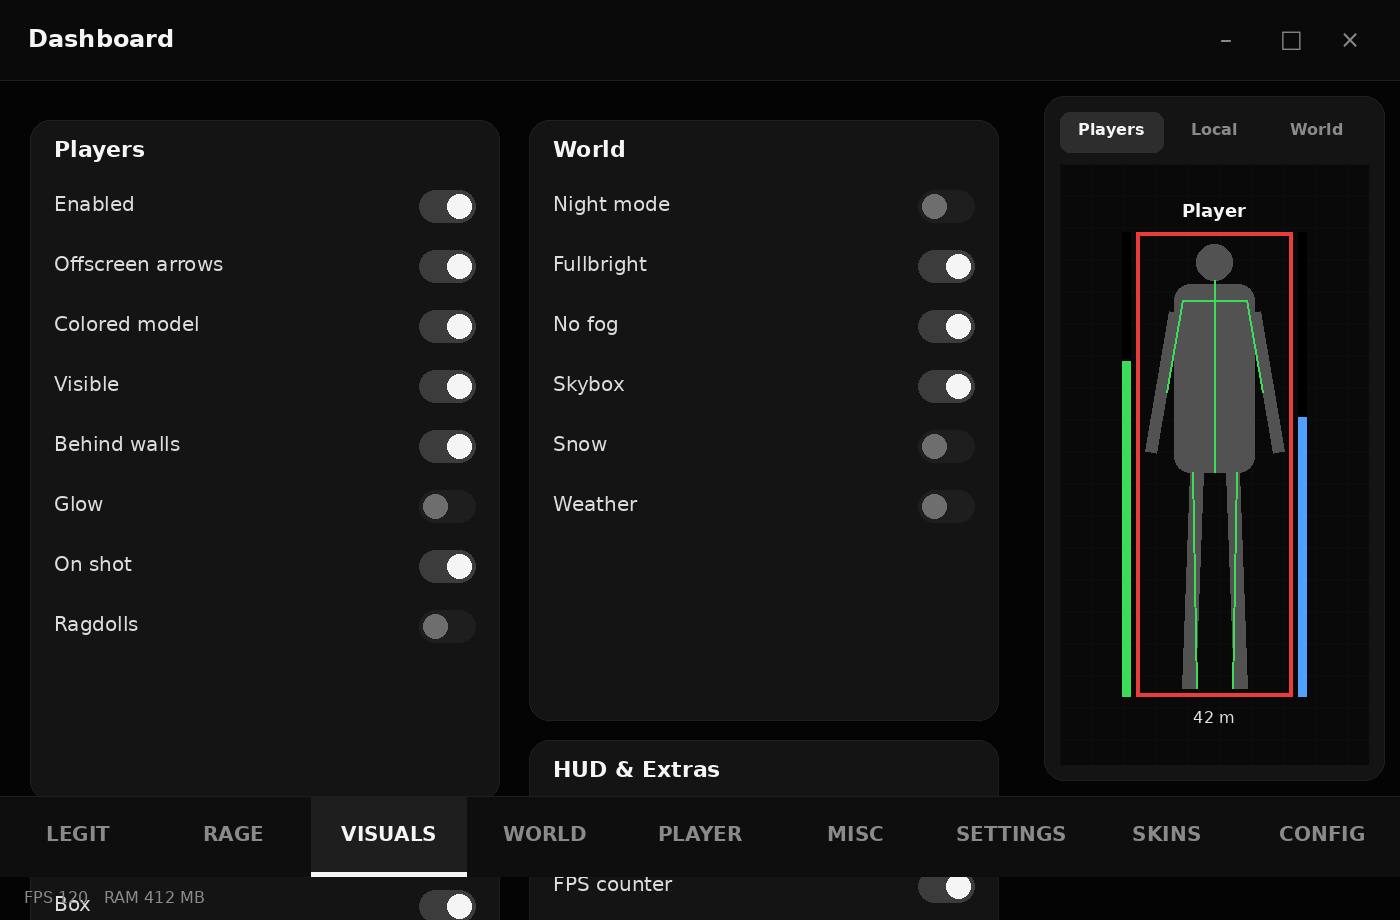
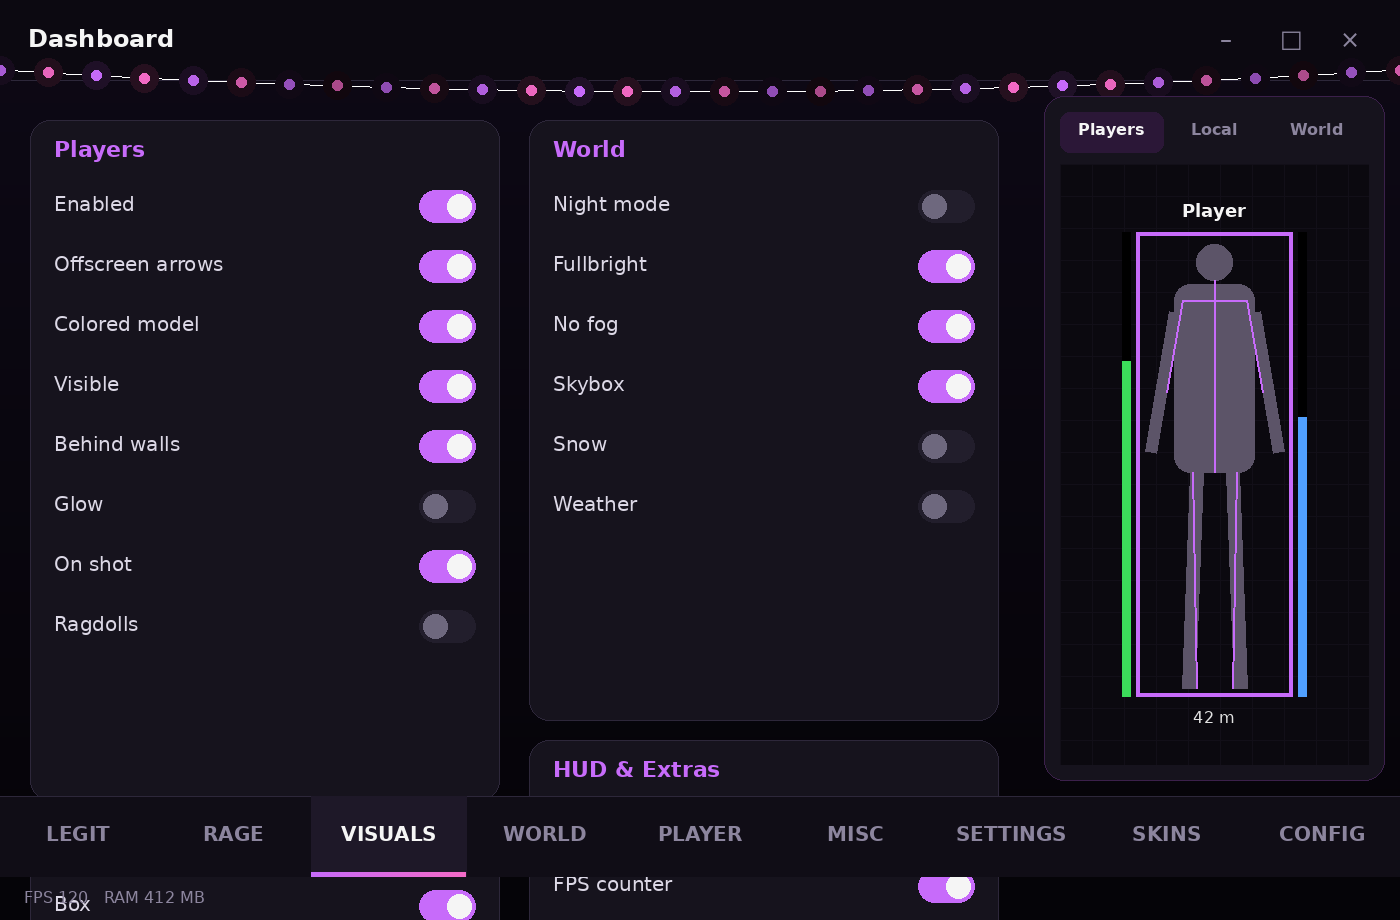
feat(menu): гирлянда, моушн-блюр и розово-фиолетовая палитра (#12)
- палитра: акцент #c76bfa (фиолетовый) + #f56bc7 (розовый), поверхности
  почти чёрные с фиолетовым подтоном, границы и текст — серые
- GarlandView: анимированная гирлянда по нижней кромке верхней панели,
  лампочки мигают в противофазе, цвета чередуются розовый/фиолетовый
- моушн-блюр: UIVisualEffectView поверх меню, альфа растёт от скорости
  пана и плавно гаснет после отпускания
- градиент фона меню, рамка превью и подчёркивание активной вкладки
  теперь в акцентных цветах

diff --git a/FlopDLC.mm b/FlopDLC.mm
@@ -5145,21 +5145,24 @@ static UIImage* CreateFlopDLCFLogo(CGSize size) {
 @property (nonatomic, strong) UILabel *titleLabel;
 @end
 
-// Монохромная палитра как в референсе: почти чёрные поверхности, белый акцент.
+// Палитра: розово-фиолетовый акцент на почти чёрном, серые подложки.
 static UIColor* NLAccent(void) {
-    return gMenuAccent ?: [UIColor colorWithWhite:0.96 alpha:1.0];
+    return gMenuAccent ?: [UIColor colorWithRed:0.78 green:0.42 blue:0.98 alpha:1.0];
+}
+static UIColor* NLAccent2(void) {
+    return [UIColor colorWithRed:0.96 green:0.42 blue:0.78 alpha:1.0];
 }
 static UIColor* NLSurface(void) {
-    return [UIColor colorWithWhite:0.016 alpha:1.0];
+    return [UIColor colorWithRed:0.035 green:0.031 blue:0.047 alpha:1.0];
 }
 static UIColor* NLSurfaceHi(void) {
-    return [UIColor colorWithWhite:0.078 alpha:1.0];
+    return [UIColor colorWithRed:0.086 green:0.075 blue:0.114 alpha:1.0];
 }
 static UIColor* NLBorder(void) {
-    return [UIColor colorWithWhite:0.122 alpha:1.0];
+    return [UIColor colorWithRed:0.176 green:0.153 blue:0.227 alpha:1.0];
 }
 static UIColor* NLTextDim(void) {
-    return [UIColor colorWithWhite:0.54 alpha:1.0];
+    return [UIColor colorWithRed:0.55 green:0.52 blue:0.62 alpha:1.0];
 }
 
 @implementation NLGroupBox
@@ -6526,6 +6529,89 @@ static void NLDrawCentered(NSString *text, CGFloat cx, CGFloat y, UIFont *font,
 
 @end
 
+// =========================================================================================
+// GARLAND — гирлянда из лампочек по нижней кромке верхней панели.
+// =========================================================================================
+@interface GarlandView : UIView
+@end
+
+@implementation GarlandView {
+    CADisplayLink *_link;
+    CFTimeInterval _t0;
+}
+
+- (instancetype)initWithFrame:(CGRect)frame {
+    self = [super initWithFrame:frame];
+    if (self) {
+        self.backgroundColor = [UIColor clearColor];
+        self.opaque = NO;
+        self.userInteractionEnabled = NO;
+        self.contentMode = UIViewContentModeRedraw;
+    }
+    return self;
+}
+
+- (void)didMoveToWindow {
+    [super didMoveToWindow];
+    [_link invalidate];
+    _link = nil;
+    if (self.window) {
+        _t0 = CACurrentMediaTime();
+        _link = [CADisplayLink displayLinkWithTarget:self selector:@selector(tick)];
+        [_link addToRunLoop:[NSRunLoop mainRunLoop] forMode:NSRunLoopCommonModes];
+    }
+}
+
+- (void)tick {
+    [self setNeedsDisplay];
+}
+
+- (void)dealloc {
+    [_link invalidate];
+}
+
+- (void)drawRect:(CGRect)rect {
+    CGContextRef ctx = UIGraphicsGetCurrentContext();
+    if (!ctx) {
+        return;
+    }
+    CGFloat w = self.bounds.size.width;
+    CGFloat h = self.bounds.size.height;
+    if (w < 40.0 || h < 12.0) {
+        return;
+    }
+
+    double t = CACurrentMediaTime() - _t0;
+    CGFloat y0 = 3.0;
+    CGFloat sag = h * 0.42;
+
+    CGContextSetStrokeColorWithColor(ctx, [UIColor colorWithWhite:1.0 alpha:0.10].CGColor);
+    CGContextSetLineWidth(ctx, 1.0);
+    CGContextMoveToPoint(ctx, 0, y0);
+    CGContextAddQuadCurveToPoint(ctx, w * 0.5, y0 + sag * 2.0, w, y0);
+    CGContextStrokePath(ctx);
+
+    int bulbs = MAX(8, (int)(w / 24.0));
+    for (int i = 0; i <= bulbs; i++) {
+        CGFloat u = (CGFloat)i / (CGFloat)bulbs;
+        CGFloat x = u * w;
+        CGFloat y = y0 + 4.0 * sag * u * (1.0 - u);
+
+        double phase = t * 2.4 + (double)i * 0.65;
+        CGFloat glow = 0.45 + 0.55 * (CGFloat)(0.5 + 0.5 * sin(phase));
+
+        UIColor *c = (i % 2 == 0) ? NLAccent() : NLAccent2();
+
+        CGContextSetFillColorWithColor(ctx, [c colorWithAlphaComponent:0.16 * glow].CGColor);
+        CGContextFillEllipseInRect(ctx, CGRectMake(x - 7.0, y - 7.0, 14.0, 14.0));
+
+        CGContextSetFillColorWithColor(ctx, [c colorWithAlphaComponent:0.45 + 0.55 * glow].CGColor);
+        CGContextFillEllipseInRect(ctx, CGRectMake(x - 2.5, y - 2.5, 5.0, 5.0));
+    }
+}
+
+@end
+
 @interface MenuView : UIView
 - (void)togglePlayerChamsMenu:(UIButton*)sender;
 - (void)toggleWeaponChamsMenu:(UIButton*)sender;
@@ -6783,6 +6869,8 @@ static NLButton* RageMakeCycle(NSString* initial, NSArray<NSString*>* labels, NS
     int _currentTab;
     BOOL _isMinimized;
     CGRect _origFrame;
+    GarlandView *_garland;
+    UIVisualEffectView *_motionBlur;
 }
 
 static const CGFloat kTopBarH = 40.0;
@@ -6807,8 +6895,8 @@ static const CGFloat kPreviewW = 170.0;
         
         CAGradientLayer *grad = [CAGradientLayer layer];
         grad.frame = self.bounds;
-        grad.colors = @[(id)[UIColor colorWithWhite:0.016 alpha:0.96].CGColor,
-                        (id)[UIColor colorWithWhite:0.016 alpha:0.96].CGColor];
+        grad.colors = @[(id)[UIColor colorWithRed:0.055 green:0.035 blue:0.086 alpha:0.97].CGColor,
+                        (id)[UIColor colorWithRed:0.020 green:0.016 blue:0.031 alpha:0.97].CGColor];
         grad.startPoint = CGPointMake(0, 0);
         grad.endPoint = CGPointMake(1, 1);
         [self.layer insertSublayer:grad atIndex:0];
@@ -6897,7 +6985,7 @@ static const CGFloat kPreviewW = 170.0;
         _previewPanel.backgroundColor = NLSurfaceHi();
         _previewPanel.layer.cornerRadius = 10;
         _previewPanel.layer.borderWidth = 1;
-        _previewPanel.layer.borderColor = NLBorder().CGColor;
+        _previewPanel.layer.borderColor = [NLAccent() colorWithAlphaComponent:0.30].CGColor;
         [self addSubview:_previewPanel];
 
         NSArray *segTitles = @[@"Players", @"Local", @"World"];
@@ -6908,7 +6996,7 @@ static const CGFloat kPreviewW = 170.0;
             [sb setTitle:segTitles[i] forState:UIControlStateNormal];
             sb.titleLabel.font = [UIFont systemFontOfSize:8 weight:UIFontWeightSemibold];
             [sb setTitleColor:(i == 0 ? [UIColor whiteColor] : NLTextDim()) forState:UIControlStateNormal];
-            sb.backgroundColor = (i == 0 ? [UIColor colorWithWhite:1.0 alpha:0.10] : [UIColor clearColor]);
+            sb.backgroundColor = (i == 0 ? [NLAccent() colorWithAlphaComponent:0.22] : [UIColor clearColor]);
             sb.layer.cornerRadius = 5;
             sb.tag = 900 + i;
             [sb addTarget:self action:@selector(previewSegTap:) forControlEvents:UIControlEventTouchUpInside];
@@ -6920,7 +7008,20 @@ static const CGFloat kPreviewW = 170.0;
         pv.layer.cornerRadius = 8;
         pv.clipsToBounds = YES;
         [_previewPanel addSubview:pv];
-        
+
+        // Гирлянда по нижней кромке верхней панели.
+        _garland = [[GarlandView alloc] initWithFrame:CGRectMake(0, kTopBarH - 8, frame.size.width, 26)];
+        _garland.autoresizingMask = UIViewAutoresizingFlexibleWidth;
+        [self addSubview:_garland];
+
+        // Моушн-блюр: проявляется, пока меню тащат.
+        _motionBlur = [[UIVisualEffectView alloc] initWithEffect:[UIBlurEffect effectWithStyle:UIBlurEffectStyleSystemUltraThinMaterialDark]];
+        _motionBlur.frame = self.bounds;
+        _motionBlur.autoresizingMask = UIViewAutoresizingFlexibleWidth | UIViewAutoresizingFlexibleHeight;
+        _motionBlur.alpha = 0.0;
+        _motionBlur.userInteractionEnabled = NO;
+        [self addSubview:_motionBlur];
+
         [self switchToTab:0];
 
         __weak MenuView *weakMenu = self;
@@ -7106,9 +7207,14 @@ static NSString* NLIconForTab(NSString* title) {
     [b addTarget:self action:@selector(tabTap:) forControlEvents:UIControlEventTouchUpInside];
 
     UIView *ul = [[UIView alloc] initWithFrame:CGRectMake(0, _tabBar.bounds.size.height - 2, w, 2)];
-    ul.backgroundColor = [UIColor whiteColor];
     ul.tag = 999;
     ul.hidden = YES;
+    CAGradientLayer *ug = [CAGradientLayer layer];
+    ug.frame = CGRectMake(0, 0, w, 2);
+    ug.colors = @[(id)NLAccent().CGColor, (id)NLAccent2().CGColor];
+    ug.startPoint = CGPointMake(0, 0.5);
+    ug.endPoint = CGPointMake(1, 0.5);
+    [ul.layer addSublayer:ug];
     [b addSubview:ul];
 
     [_tabBar addSubview:b];
@@ -7126,7 +7232,7 @@ static NSString* NLIconForTab(NSString* title) {
         }
         BOOL on = (b == sender);
         [b setTitleColor:(on ? [UIColor whiteColor] : NLTextDim()) forState:UIControlStateNormal];
-        b.backgroundColor = on ? [UIColor colorWithWhite:1.0 alpha:0.10] : [UIColor clearColor];
+        b.backgroundColor = on ? [NLAccent() colorWithAlphaComponent:0.22] : [UIColor clearColor];
     }
 }
 
@@ -7196,6 +7302,8 @@ static NSString* NLIconForTab(NSString* title) {
     _content.frame = CGRectMake(0, kTopBarH, W - kPreviewW - 16, H - kTopBarH - kTabBarH - kStatusH);
     _scrollView.frame = _content.bounds;
     _previewPanel.frame = CGRectMake(W - kPreviewW - 8, kTopBarH + 8, kPreviewW, H - kTopBarH - kTabBarH - kStatusH - 16);
+    _garland.frame = CGRectMake(0, kTopBarH - 8, W, 26);
+    _motionBlur.frame = self.bounds;
 
     CGFloat tw = W / MAX(1.0, (CGFloat)_tabs.count);
     for (NSUInteger i = 0; i < _tabs.count; i++) {
@@ -7204,6 +7312,9 @@ static NSString* NLIconForTab(NSString* title) {
         for (UIView *v in b.subviews) {
             if (v.tag == 999) {
                 v.frame = CGRectMake(0, kTabBarH - 2, tw, 2);
+                for (CALayer *gl in v.layer.sublayers) {
+                    gl.frame = v.bounds;
+                }
             }
         }
     }
@@ -10162,6 +10273,16 @@ static NSString* NLIconForTab(NSString* title) {
     CGPoint translation = [p translationInView:self.superview];
     self.center = CGPointMake(self.center.x + translation.x, self.center.y + translation.y);
     [p setTranslation:CGPointZero inView:self.superview];
+
+    if (p.state == UIGestureRecognizerStateChanged) {
+        CGPoint v = [p velocityInView:self.superview];
+        CGFloat speed = sqrt(v.x * v.x + v.y * v.y);
+        _motionBlur.alpha = MIN(0.55, speed / 1600.0);
+    } else if (p.state == UIGestureRecognizerStateEnded || p.state == UIGestureRecognizerStateCancelled) {
+        [UIView animateWithDuration:0.28 animations:^{
+            self->_motionBlur.alpha = 0.0;
+        }];
+    }
 }
 
 - (void)minimizeAction {
